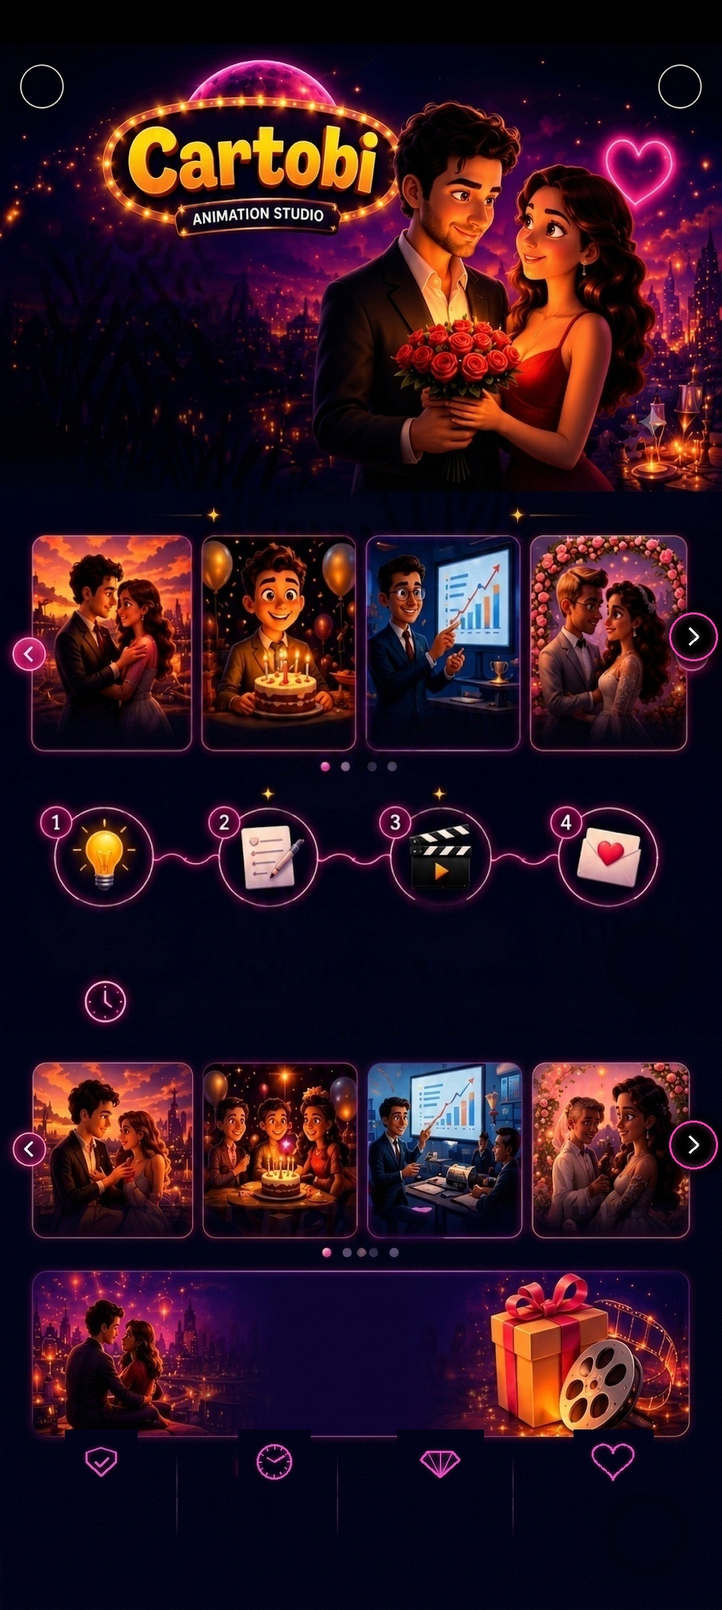
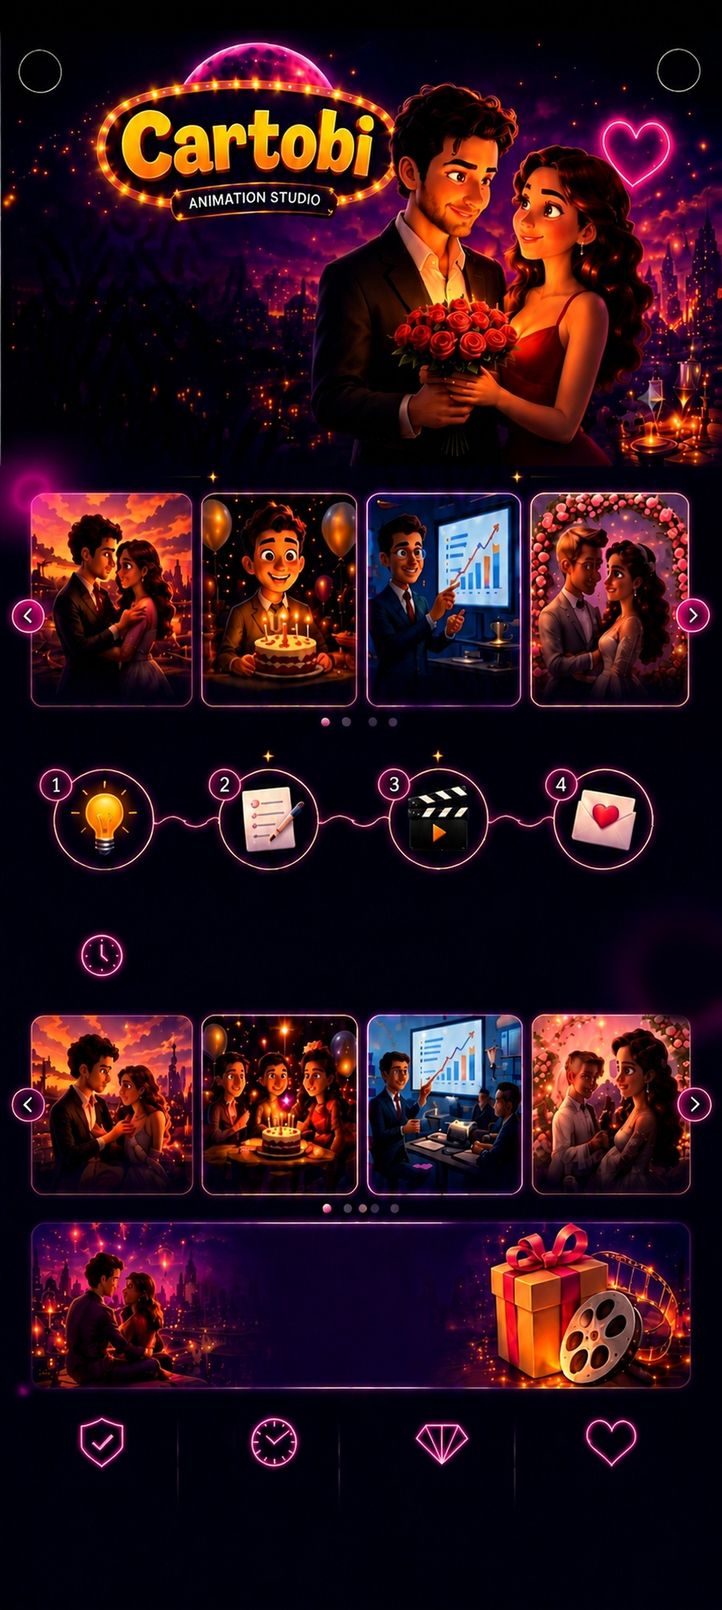
Big round of adult section polish (all agreed via mockup-before-push this session): removed the whole 'Приклади наших робіт' baked strip from hero-adult.jpg (cropped 296px out, stitched remainder, all downstream elements' % positions recalculated for the new shorter image height 2408->2083... wait, 

diff --git a/index.html b/index.html
@@ -442,31 +442,26 @@
     <img src="hero-adult.jpg" alt="Персоналізована анімація на замовлення для дорослих — подарунок, весілля, корпоратив — Cartobi">
   </div>
 
-  <div class="ov ov-heading" id="a-tagline" style="left:4%; top:14.3%; width:54%; height:8%; text-align:left;"></div>
-  <button class="real-btn" id="a-cta-main" onclick="goToBot('adult')" style="left:6%; top:25%; width:40%; height:2%;"></button>
-  <div class="ov ov-small" id="a-startnow" style="left:4%; top:28%; width:55%; height:1.8%; text-align:left;"></div>
-  <div class="ov ov-heading" id="a-format-heading" style="left:5%; top:31.1%; width:90%; height:2%;"></div>
+  <button class="real-btn" id="a-cta-main" onclick="goToBot('adult')" style="left:6%; top:23%; width:auto; height:auto; min-width:0; padding:9px 20px; font-size:clamp(11px,2.9vw,14px); white-space:nowrap;"></button>
+  <div class="ov ov-small" id="a-startnow" style="left:4%; top:14.3%; width:52%; height:8%; text-align:left; font-size:clamp(11px,3vw,14px); line-height:1.25; opacity:1; white-space:pre-line;"></div>
+  <div class="ov ov-heading" id="a-format-heading" style="left:5%; top:27.4%; width:90%; height:2.5%; font-size:clamp(13px,3.6vw,19px);"></div>
 
-  <div class="ov ov-caption" id="a-format-1" style="left:2%; top:44.6%; width:23%; height:5%;"></div>
-  <div class="ov ov-caption" id="a-format-2" style="left:27%; top:44.6%; width:23%; height:5%;"></div>
-  <div class="ov ov-caption" id="a-format-3" style="left:52%; top:44.6%; width:23%; height:5%;"></div>
-  <div class="ov ov-caption" id="a-format-4" style="left:77%; top:44.6%; width:21%; height:5%;"></div>
+  <div class="ov ov-caption" id="a-format-1" style="left:3.5%; top:37%; width:24%; height:6.3%; display:flex; flex-direction:column; align-items:center; justify-content:flex-end;"></div>
+  <div class="ov ov-caption" id="a-format-2" style="left:28%; top:37%; width:22%; height:6.3%; display:flex; flex-direction:column; align-items:center; justify-content:flex-end;"></div>
+  <div class="ov ov-caption" id="a-format-3" style="left:50%; top:37%; width:22%; height:6.3%; display:flex; flex-direction:column; align-items:center; justify-content:flex-end;"></div>
+  <div class="ov ov-caption" id="a-format-4" style="left:72%; top:37%; width:24%; height:6.3%; display:flex; flex-direction:column; align-items:center; justify-content:flex-end;"></div>
 
   <!-- "Як це працює?" / кроки / терміни прибрані з картинки 06.08 — це
        FAQ-контент, тепер його розповідає тільки Зоряна (голосом). -->
 
-  <div class="ov ov-heading" id="a-examples-heading" style="left:5%; top:63.9%; width:90%; height:1.6%;"></div>
-  <div class="ov ov-caption" id="a-tc-1" style="left:3%; top:72.5%; width:12%; height:1.6%; text-align:left;"></div>
-  <div class="ov ov-caption" id="a-tc-2" style="left:28%; top:72.5%; width:12%; height:1.6%; text-align:left;"></div>
-  <div class="ov ov-caption" id="a-tc-3" style="left:53%; top:72.5%; width:12%; height:1.6%; text-align:left;"></div>
-  <div class="ov ov-caption" id="a-tc-4" style="left:78%; top:72.5%; width:12%; height:1.6%; text-align:left;"></div>
-  <div class="ov ov-caption" id="a-ex-cap-1" style="left:2%; top:74.8%; width:23%; height:2.8%;"></div>
-  <div class="ov ov-caption" id="a-ex-cap-2" style="left:27%; top:74.8%; width:23%; height:2.8%;"></div>
-  <div class="ov ov-caption" id="a-ex-cap-3" style="left:52%; top:74.8%; width:23%; height:2.8%;"></div>
-  <div class="ov ov-caption" id="a-ex-cap-4" style="left:77%; top:74.8%; width:21%; height:2.8%;"></div>
+  
+  <div class="ov ov-caption" id="a-ex-cap-1" style="left:5.2%; top:68%; width:22.4%; height:5.9%; display:flex; flex-direction:column; align-items:center; justify-content:flex-end;"></div>
+  <div class="ov ov-caption" id="a-ex-cap-2" style="left:28%; top:68%; width:22%; height:5.9%; display:flex; flex-direction:column; align-items:center; justify-content:flex-end;"></div>
+  <div class="ov ov-caption" id="a-ex-cap-3" style="left:50%; top:68%; width:22%; height:5.9%; display:flex; flex-direction:column; align-items:center; justify-content:flex-end;"></div>
+  <div class="ov ov-caption" id="a-ex-cap-4" style="left:73.6%; top:68%; width:20%; height:5.9%; display:flex; flex-direction:column; align-items:center; justify-content:flex-end;"></div>
 
-  <div class="ov ov-heading" id="a-banner-h" style="left:8%; top:79.5%; width:58%; height:4.6%; text-align:left;"></div>
-  <button class="real-btn" id="a-cta-final" onclick="goToBot('adult')" style="left:60%; top:85.5%; width:auto; height:auto; min-width:0; transform:translate(-50%,-50%); padding:7px 16px; font-size:clamp(10px,3vw,15px); white-space:nowrap;"></button>
+  <div class="ov ov-heading" id="a-banner-h" style="left:17%; top:54.5%; width:73.5%; height:7%; text-align:center; font-size:clamp(14px,3.8vw,20px); line-height:1.2; display:flex; align-items:center; justify-content:center;"></div>
+  <button class="real-btn" id="a-cta-final" onclick="goToBot('adult')" style="left:49%; top:80.8%; width:auto; height:auto; min-width:0; transform:translate(-50%,-50%); padding:6px 12px; font-size:clamp(9px,2.4vw,12px); white-space:normal; text-align:center; max-width:33%; line-height:1.2;"></button>
 
   <div class="ov ov-badge" id="a-badge-1" style="left:1%; top:92.6%; width:23%; height:1.7%;"></div>
   <div class="ov ov-badge" id="a-badge-2" style="left:26%; top:92.6%; width:23%; height:1.7%;"></div>
@@ -761,112 +756,110 @@
 
   // ---------- Доросла лінійка — текст (раніше запечений в картинці) ----------
   const ADULT_TXT = {
-    ua: { tagline:'Мультфільми для важливих моментів життя', startnow:'Романтика, свята, корпоративні історії — оживляємо емоції. Почніть свою унікальну історію прямо зараз!',
-      formatheading:'Оберіть формат мультфільму', format1:'Романтичні історії кохання', format2:'Оригінальне привітання з Днем народження', format3:'Корпоративна анімація та презентації', format4:'Весільні мультфільми-історії',
+    ua: { tagline:'Мультфільми для важливих моментів життя', startnow:'Романтика, свята,\nкорпоративні історії —\nоживляємо емоції. Почніть\nсвою історію прямо зараз!',
+      formatheading:'Оберіть формат вашого мультфільму', format1:'Романтичні\nісторії\nкохання', format2:'Оригінальне\nпривітання з\nДнем народження', format3:'Корпоративна\nанімація та\nпрезентації', format4:'Весільні\nмультфільми-\nісторії',
       howheading:'Як це працює?', step1:'Розкажіть свою ідею — заповніть бриф або напишіть нам', step2:'Сценарій — пишемо і надсилаємо на затвердження',
       step3:'Анімація — професійна анімація та озвучка', step4:'Ви отримаєте емоції — готовий мультфільм, який зворушує',
       timing:'Виготовлення від 5-7 днів після затвердження сценарію', examplesheading:'Приклади наших робіт',
-      exCap1:'Історія нашого кохання', exCap2:'Привітання для друга', exCap3:'Презентаційний ролик', exCap4:'Наша весільна казка',
+      exCap1:'Історія\nнашого кохання', exCap2:'Привітання\nдля друга', exCap3:'Презентаційний\nролик', exCap4:'Наша весільна\nказка',
       bannerH:'Подаруйте емоції, які залишаються назавжди', badge1t:'Конфіденційно', badge1s:'Ваші історії під повним захистом',
       badge2t:'Швидко та якісно', badge2s:'Професійна анімація та озвучка', badge3t:'Унікальний контент', badge3s:'Індивідуальний сценарій та стиль',
       badge4t:'З любов\u2019ю до деталей', badge4s:'Ми створюємо історії, які торкаються серця',
       copyright:'© 2026 Cartobi Animation Studio', ctaMain:'♡ СТВОРИТИ ІСТОРІЮ', ctaFinal:'♡ СТВОРИТИ МУЛЬТФІЛЬМ ЗАРАЗ' },
-    en: { tagline:'Cartoons for life\u2019s important moments', startnow:'Romance, celebrations, corporate stories — we bring emotions to life. Start your unique story right now!',
-      formatheading:'Choose your cartoon format', format1:'Romantic Love Stories', format2:'A Unique Birthday Greeting', format3:'Corporate Animation & Presentations', format4:'Wedding Story Cartoons',
+    en: { tagline:'Cartoons for life\u2019s important moments', startnow:'Romance, celebrations,\ncorporate stories — we bring\nemotions to life. Start\nyour unique story now!',
+      formatheading:'Choose your cartoon format', format1:'Romantic\nLove\nStories', format2:'A Unique\nBirthday\nGreeting', format3:'Corporate\nAnimation &\nPresentations', format4:'Wedding\nStory\nCartoons',
       howheading:'How does it work?', step1:'Tell us your idea — fill a brief or message us', step2:'Script — we write it and send it for approval',
       step3:'Animation — professional animation and voiceover', step4:'You get the emotion — a finished cartoon that moves you',
       timing:'Production takes 5-7 days after script approval', examplesheading:'Examples of our work',
-      exCap1:'Our love story', exCap2:'A greeting for a friend', exCap3:'Presentation video', exCap4:'Our wedding tale',
+      exCap1:'Our love\nstory', exCap2:'A greeting\nfor a friend', exCap3:'Presentation\nvideo', exCap4:'Our wedding\ntale',
       bannerH:'Give emotions that last forever', badge1t:'Confidential', badge1s:'Your stories are fully protected',
       badge2t:'Fast and high-quality', badge2s:'Professional animation and voiceover', badge3t:'Unique content', badge3s:'Custom script and style',
       badge4t:'Made with attention to detail', badge4s:'We create stories that touch the heart',
       copyright:'© 2026 Cartobi Animation Studio', ctaMain:'♡ CREATE A STORY', ctaFinal:'♡ CREATE A CARTOON NOW' },
-    ru: { tagline:'Мультфильмы для важных моментов жизни', startnow:'Романтика, праздники, корпоративные истории — оживляем эмоции. Начните свою уникальную историю прямо сейчас!',
-      formatheading:'Выберите формат мультфильма', format1:'Романтические истории любви', format2:'Оригинальное поздравление с Днём рождения', format3:'Корпоративная анимация и презентации', format4:'Свадебные мультфильмы-истории',
+    ru: { tagline:'Мультфильмы для важных моментов жизни', startnow:'Романтика, праздники,\nкорпоративные истории —\nоживляем эмоции. Начните\nсвою историю прямо сейчас!',
+      formatheading:'Выберите формат вашего мультфильма', format1:'Романтические\nистории\nлюбви', format2:'Оригинальное\nпоздравление с\nДнём рождения', format3:'Корпоративная\nанимация и\nпрезентации', format4:'Свадебные\nмультфильмы-\nистории',
       howheading:'Как это работает?', step1:'Расскажите свою идею — заполните бриф или напишите нам', step2:'Сценарий — пишем и отправляем на утверждение',
       step3:'Анимация — профессиональная анимация и озвучка', step4:'Вы получаете эмоции — готовый мультфильм, который трогает',
       timing:'Изготовление от 5-7 дней после утверждения сценария', examplesheading:'Примеры наших работ',
-      exCap1:'История нашей любви', exCap2:'Поздравление для друга', exCap3:'Презентационный ролик', exCap4:'Наша свадебная сказка',
+      exCap1:'История\nнашей любви', exCap2:'Поздравление\nдля друга', exCap3:'Презентационный\nролик', exCap4:'Наша свадебная\nсказка',
       bannerH:'Подарите эмоции, которые остаются навсегда', badge1t:'Конфиденциально', badge1s:'Ваши истории под полной защитой',
       badge2t:'Быстро и качественно', badge2s:'Профессиональная анимация и озвучка', badge3t:'Уникальный контент', badge3s:'Индивидуальный сценарий и стиль',
       badge4t:'С любовью к деталям', badge4s:'Мы создаём истории, которые трогают сердце',
       copyright:'© 2026 Cartobi Animation Studio', ctaMain:'♡ СОЗДАТЬ ИСТОРИЮ', ctaFinal:'♡ СОЗДАТЬ МУЛЬТФИЛЬМ' },
-    it: { tagline:'Cartoni animati per i momenti importanti della vita', startnow:'Romanticismo, feste, storie aziendali — diamo vita alle emozioni. Inizia subito la tua storia unica!',
-      formatheading:'Scegli il formato del cartone', format1:"Storie d'amore romantiche", format2:'Un augurio di compleanno originale', format3:'Animazione aziendale e presentazioni', format4:'Cartoni per il matrimonio',
+    it: { tagline:'Cartoni animati per i momenti importanti della vita', startnow:'Romanticismo, feste,\nstorie aziendali — diamo\nvita alle emozioni. Inizia\nsubito la tua storia!',
+      formatheading:'Scegli il formato del tuo cartone', format1:"Storie\nd'amore\nromantiche", format2:'Un augurio\ndi compleanno\noriginale', format3:'Animazione\naziendale e\npresentazioni', format4:'Cartoni\nper il\nmatrimonio',
       howheading:'Come funziona?', step1:'Raccontaci la tua idea — compila il brief o scrivici', step2:'Sceneggiatura — la scriviamo e la inviamo per l\u2019approvazione',
       step3:'Animazione — animazione professionale e doppiaggio', step4:'Ricevi le emozioni — un cartone finito che commuove',
       timing:'Realizzazione in 5-7 giorni dopo l\u2019approvazione della sceneggiatura', examplesheading:'Esempi dei nostri lavori',
-      exCap1:'La nostra storia d\u2019amore', exCap2:'Un augurio per un amico', exCap3:'Video di presentazione', exCap4:'La nostra favola di matrimonio',
+      exCap1:'La nostra\nstoria d\u2019amore', exCap2:'Un augurio\nper un amico', exCap3:'Video di\npresentazione', exCap4:'La nostra favola\ndi matrimonio',
       bannerH:'Regala emozioni che durano per sempre', badge1t:'Riservato', badge1s:'Le tue storie sono pienamente protette',
       badge2t:'Veloce e di qualità', badge2s:'Animazione e doppiaggio professionali', badge3t:'Contenuto unico', badge3s:'Sceneggiatura e stile personalizzati',
       badge4t:'Con cura per i dettagli', badge4s:'Creiamo storie che toccano il cuore',
       copyright:'© 2026 Cartobi Animation Studio', ctaMain:'♡ CREA UNA STORIA', ctaFinal:'♡ CREA IL CARTONE ORA' },
-    fr: { tagline:'Des dessins animés pour les moments importants de la vie', startnow:'Romance, fêtes, histoires d\u2019entreprise — nous donnons vie aux émotions. Commencez votre histoire unique dès maintenant !',
-      formatheading:'Choisissez le format du dessin animé', format1:"Histoires d'amour romantiques", format2:'Un vœu d\u2019anniversaire original', format3:'Animation d\u2019entreprise et présentations', format4:'Dessins animés de mariage',
+    fr: { tagline:'Des dessins animés pour les moments importants de la vie', startnow:'Romance, fêtes,\nhistoires d\u2019entreprise —\nnous donnons vie aux émotions.\nCommencez dès maintenant !',
+      formatheading:'Choisissez le format de votre dessin animé', format1:"Histoires\nd'amour\nromantiques", format2:'Un vœu\nd\u2019anniversaire\noriginal', format3:'Animation\nd\u2019entreprise et\nprésentations', format4:'Dessins\nanimés de\nmariage',
       howheading:'Comment ça marche ?', step1:'Racontez-nous votre idée — remplissez le brief ou écrivez-nous', step2:'Scénario — nous l\u2019écrivons et l\u2019envoyons pour validation',
       step3:'Animation — animation professionnelle et voix off', step4:'Vous recevez l\u2019émotion — un dessin animé fini qui touche',
       timing:'Réalisation en 5 à 7 jours après validation du scénario', examplesheading:'Exemples de nos réalisations',
-      exCap1:'Notre histoire d\u2019amour', exCap2:'Un message pour un ami', exCap3:'Vidéo de présentation', exCap4:'Notre conte de mariage',
+      exCap1:'Notre histoire\nd\u2019amour', exCap2:'Un message\npour un ami', exCap3:'Vidéo de\nprésentation', exCap4:'Notre conte\nde mariage',
       bannerH:'Offrez des émotions qui durent toujours', badge1t:'Confidentiel', badge1s:'Vos histoires sont entièrement protégées',
       badge2t:'Rapide et de qualité', badge2s:'Animation et voix off professionnelles', badge3t:'Contenu unique', badge3s:'Scénario et style personnalisés',
       badge4t:'Avec le souci du détail', badge4s:'Nous créons des histoires qui touchent le cœur',
       copyright:'© 2026 Cartobi Animation Studio', ctaMain:'♡ CRÉER UNE HISTOIRE', ctaFinal:'♡ CRÉER LE DESSIN ANIMÉ' },
-    es: { tagline:'Dibujos animados para los momentos importantes de la vida', startnow:'Romance, celebraciones, historias corporativas — damos vida a las emociones. ¡Comienza tu historia única ahora mismo!',
-      formatheading:'Elige el formato del dibujo animado', format1:'Historias de amor románticas', format2:'Un saludo de cumpleaños original', format3:'Animación corporativa y presentaciones', format4:'Dibujos animados de boda',
+    es: { tagline:'Dibujos animados para los momentos importantes de la vida', startnow:'Romance, celebraciones,\nhistorias corporativas —\ndamos vida a las emociones.\n¡Comienza ahora mismo!',
+      formatheading:'Elige el formato de tu dibujo animado', format1:'Historias\nde amor\nrománticas', format2:'Un saludo de\ncumpleaños\noriginal', format3:'Animación\ncorporativa y\npresentaciones', format4:'Dibujos\nanimados\nde boda',
       howheading:'¿Cómo funciona?', step1:'Cuéntanos tu idea — completa el brief o escríbenos', step2:'Guion — lo escribimos y lo enviamos para su aprobación',
       step3:'Animación — animación profesional y locución', step4:'Recibes la emoción — un dibujo animado terminado que conmueve',
       timing:'La producción tarda de 5 a 7 días tras la aprobación del guion', examplesheading:'Ejemplos de nuestros trabajos',
-      exCap1:'Nuestra historia de amor', exCap2:'Un saludo para un amigo', exCap3:'Video de presentación', exCap4:'Nuestro cuento de boda',
+      exCap1:'Nuestra historia\nde amor', exCap2:'Un saludo\npara un amigo', exCap3:'Video de\npresentación', exCap4:'Nuestro cuento\nde boda',
       bannerH:'Regala emociones que duran para siempre', badge1t:'Confidencial', badge1s:'Tus historias están totalmente protegidas',
       badge2t:'Rápido y de calidad', badge2s:'Animación y locución profesionales', badge3t:'Contenido único', badge3s:'Guion y estilo personalizados',
       badge4t:'Con amor por los detalles', badge4s:'Creamos historias que tocan el corazón',
       copyright:'© 2026 Cartobi Animation Studio', ctaMain:'♡ CREAR UNA HISTORIA', ctaFinal:'♡ CREAR EL DIBUJO YA' },
-    pl: { tagline:'Bajki na ważne chwile w życiu', startnow:'Romantyzm, święta, historie firmowe — ożywiamy emocje. Zacznij swoją wyjątkową historię już teraz!',
-      formatheading:'Wybierz format bajki', format1:'Romantyczne historie miłosne', format2:'Oryginalne życzenia urodzinowe', format3:'Animacje i prezentacje firmowe', format4:'Bajkowe historie ślubne',
+    pl: { tagline:'Bajki na ważne chwile w życiu', startnow:'Romantyzm, święta,\nhistorie firmowe —\nożywiamy emocje. Zacznij\nswoją historię już teraz!',
+      formatheading:'Wybierz format swojej bajki', format1:'Romantyczne\nhistorie\nmiłosne', format2:'Oryginalne\nżyczenia\nurodzinowe', format3:'Animacje i\nprezentacje\nfirmowe', format4:'Bajkowe\nhistorie\nślubne',
       howheading:'Jak to działa?', step1:'Opowiedz nam swój pomysł — wypełnij brief lub napisz do nas', step2:'Scenariusz — piszemy go i wysyłamy do akceptacji',
       step3:'Animacja — profesjonalna animacja i lektor', step4:'Otrzymujesz emocje — gotową bajkę, która porusza',
       timing:'Realizacja od 5-7 dni po akceptacji scenariusza', examplesheading:'Przykłady naszych prac',
-      exCap1:'Nasza historia miłosna', exCap2:'Życzenia dla przyjaciela', exCap3:'Film prezentacyjny', exCap4:'Nasza bajka ślubna',
+      exCap1:'Nasza historia\nmiłosna', exCap2:'Życzenia dla\nprzyjaciela', exCap3:'Film\nprezentacyjny', exCap4:'Nasza bajka\nślubna',
       bannerH:'Podaruj emocje, które zostają na zawsze', badge1t:'Poufność', badge1s:'Twoje historie są w pełni chronione',
       badge2t:'Szybko i profesjonalnie', badge2s:'Profesjonalna animacja i lektor', badge3t:'Unikalna treść', badge3s:'Indywidualny scenariusz i styl',
       badge4t:'Z dbałością o szczegóły', badge4s:'Tworzymy historie, które poruszają serce',
       copyright:'© 2026 Cartobi Animation Studio', ctaMain:'♡ STWÓRZ HISTORIĘ', ctaFinal:'♡ STWÓRZ BAJKĘ TERAZ' },
-    de: { tagline:'Cartoons für die wichtigen Momente des Lebens', startnow:'Romantik, Feiern, Firmengeschichten — wir erwecken Emotionen zum Leben. Starte deine einzigartige Geschichte jetzt!',
-      formatheading:'Wähle das Format des Cartoons', format1:'Romantische Liebesgeschichten', format2:'Originelle Geburtstagsgrüße', format3:'Firmenanimation und Präsentationen', format4:'Hochzeits-\ncartoons',
+    de: { tagline:'Cartoons für die wichtigen Momente des Lebens', startnow:'Romantik, Feiern,\nFirmengeschichten — wir\nerwecken Emotionen zum Leben.\nStarte jetzt deine Geschichte!',
+      formatheading:'Wähle das Format deines Cartoons', format1:'Romantische\nLiebes-\ngeschichten', format2:'Originelle\nGeburtstags-\ngrüße', format3:'Firmenanimation\nund\nPräsentationen', format4:'Hoch-\nzeits-\ncartoons',
       howheading:'Wie funktioniert es?', step1:'Erzähl uns deine Idee — fülle das Briefing aus oder schreib uns', step2:'Drehbuch — wir schreiben es und senden es zur Freigabe',
       step3:'Animation — professionelle Animation und Vertonung', step4:'Du erhältst die Emotion — einen fertigen Cartoon, der berührt',
       timing:'Produktion ab 5-7 Tagen nach Drehbuch-Freigabe', examplesheading:'Beispiele unserer Arbeiten',
-      exCap1:'Unsere Liebesgeschichte', exCap2:'Ein Gruß für einen Freund', exCap3:'Präsentationsvideo', exCap4:'Unser Hochzeitsmärchen',
+      exCap1:'Unsere\nLiebesgeschichte', exCap2:'Ein Gruß für\neinen Freund', exCap3:'Präsentations-\nvideo', exCap4:'Unser Hoch-\nzeitsmärchen',
       bannerH:'Schenke Emotionen, die für immer bleiben', badge1t:'Vertraulich', badge1s:'Deine Geschichten sind vollständig geschützt',
       badge2t:'Schnell und hochwertig', badge2s:'Professionelle Animation und Vertonung', badge3t:'Einzigartiger Inhalt', badge3s:'Individuelles Drehbuch und individueller Stil',
       badge4t:'Mit Liebe zum Detail', badge4s:'Wir erschaffen Geschichten, die das Herz berühren',
       copyright:'© 2026 Cartobi Animation Studio', ctaMain:'♡ GESCHICHTE ERSTELLEN', ctaFinal:'♡ JETZT CARTOON ERSTELLEN' },
-    pt: { tagline:'Desenhos animados para os momentos importantes da vida', startnow:'Romance, celebrações, histórias corporativas — damos vida às emoções. Comece sua história única agora mesmo!',
-      formatheading:'Escolha o formato do desenho', format1:'Histórias românticas de amor', format2:'Saudação original de aniversário', format3:'Animação e apresentações corporativas', format4:'Histórias animadas de casamento',
+    pt: { tagline:'Desenhos animados para os momentos importantes da vida', startnow:'Romance, celebrações,\nhistórias corporativas —\ndamos vida às emoções.\nComece agora mesmo!',
+      formatheading:'Escolha o formato do seu desenho', format1:'Histórias\nrománticas\nde amor', format2:'Saudação\noriginal de\naniversário', format3:'Animação e\napresentações\ncorporativas', format4:'Histórias\nanimadas\nde casamento',
       howheading:'Como funciona?', step1:'Conte sua ideia — preencha o briefing ou escreva para nós', step2:'Roteiro — escrevemos e enviamos para aprovação',
       step3:'Animação — animação profissional e locução', step4:'Você recebe a emoção — um desenho pronto que emociona',
       timing:'Produção a partir de 5-7 dias após aprovação do roteiro', examplesheading:'Exemplos dos nossos trabalhos',
-      exCap1:'Nossa história de amor', exCap2:'Uma saudação para um amigo', exCap3:'Vídeo de apresentação', exCap4:'Nosso conto de casamento',
+      exCap1:'Nossa história\nde amor', exCap2:'Uma saudação\npara um amigo', exCap3:'Vídeo de\napresentação', exCap4:'Nosso conto\nde casamento',
       bannerH:'Presenteie emoções que ficam para sempre', badge1t:'Confidencial', badge1s:'Suas histórias estão totalmente protegidas',
       badge2t:'Rápido e de qualidade', badge2s:'Animação e locução profissionais', badge3t:'Conteúdo único', badge3s:'Roteiro e estilo personalizados',
       badge4t:'Com amor aos detalhes', badge4s:'Criamos histórias que tocam o coração',
       copyright:'© 2026 Cartobi Animation Studio', ctaMain:'♡ CRIAR UMA HISTÓRIA', ctaFinal:'♡ CRIAR O DESENHO JÁ' },
-    tr: { tagline:'Hayatın önemli anları için çizgi filmler', startnow:'Romantizm, kutlamalar, kurumsal hikâyeler — duyguları canlandırıyoruz. Eşsiz hikâyenize hemen başlayın!',
-      formatheading:'Çizgi film formatını seçin', format1:'Romantik aşk hikâyeleri', format2:'Özgün doğum günü kutlaması', format3:'Kurumsal animasyon ve sunumlar', format4:'Düğün hikâyesi çizgi filmleri',
+    tr: { tagline:'Hayatın önemli anları için çizgi filmler', startnow:'Romantizm, kutlamalar,\nkurumsal hikâyeler —\nduyguları canlandırıyoruz.\nHemen başlayın!',
+      formatheading:'Kendi çizgi film formatınızı seçin', format1:'Romantik\naşk\nhikâyeleri', format2:'Özgün doğum\ngünü\nkutlaması', format3:'Kurumsal\nanimasyon ve\nsunumlar', format4:'Düğün\nhikâyesi\nçizgi filmleri',
       howheading:'Nasıl çalışır?', step1:'Fikrinizi anlatın — brifi doldurun veya bize yazın', step2:'Senaryo — yazıp onayınıza sunuyoruz',
       step3:'Animasyon — profesyonel animasyon ve seslendirme', step4:'Duyguyu alın — etkileyici, tamamlanmış bir çizgi film',
       timing:'Senaryo onayından sonra 5-7 gün içinde üretim', examplesheading:'Çalışmalarımızdan örnekler',
-      exCap1:'Aşk hikâyemiz', exCap2:'Bir arkadaşa kutlama', exCap3:'Tanıtım videosu', exCap4:'Düğün masalımız',
+      exCap1:'Aşk\nhikâyemiz', exCap2:'Bir arkadaşa\nkutlama', exCap3:'Tanıtım\nvideosu', exCap4:'Düğün\nmasalımız',
       bannerH:'Sonsuza kadar kalacak duygular hediye edin', badge1t:'Gizlilik', badge1s:'Hikâyeleriniz tamamen korunmaktadır',
       badge2t:'Hızlı ve kaliteli', badge2s:'Profesyonel animasyon ve seslendirme', badge3t:'Benzersiz içerik', badge3s:'Kişiye özel senaryo ve stil',
       badge4t:'Detaylara sevgiyle', badge4s:'Kalbe dokunan hikâyeler yaratıyoruz',
       copyright:'© 2026 Cartobi Animation Studio', ctaMain:'♡ HİKÂYE OLUŞTUR', ctaFinal:'♡ HEMEN ÇİZGİ FİLM YARAT' },
   };
-  const ADULT_TIMECODES = ['02:15','01:40','02:30','03:10'];
 
   function renderAdultText(lang) {
     const t = ADULT_TXT[lang] || ADULT_TXT.ua;
-    document.getElementById('a-tagline').textContent = t.tagline;
     document.getElementById('a-startnow').textContent = t.startnow;
     document.getElementById('a-format-heading').textContent = t.formatheading;
     document.getElementById('a-format-1').textContent = t.format1;
@@ -874,11 +867,7 @@
     document.getElementById('a-format-3').textContent = t.format3;
     document.getElementById('a-format-4').textContent = t.format4;
     // how-heading/step-1..4/timing прибрані з розмітки 06.08 (FAQ тепер тільки в Заряні)
-    document.getElementById('a-examples-heading').textContent = t.examplesheading;
-    document.getElementById('a-tc-1').textContent = ADULT_TIMECODES[0];
-    document.getElementById('a-tc-2').textContent = ADULT_TIMECODES[1];
-    document.getElementById('a-tc-3').textContent = ADULT_TIMECODES[2];
-    document.getElementById('a-tc-4').textContent = ADULT_TIMECODES[3];
+    
     document.getElementById('a-ex-cap-1').textContent = t.exCap1;
     document.getElementById('a-ex-cap-2').textContent = t.exCap2;
     document.getElementById('a-ex-cap-3').textContent = t.exCap3;
